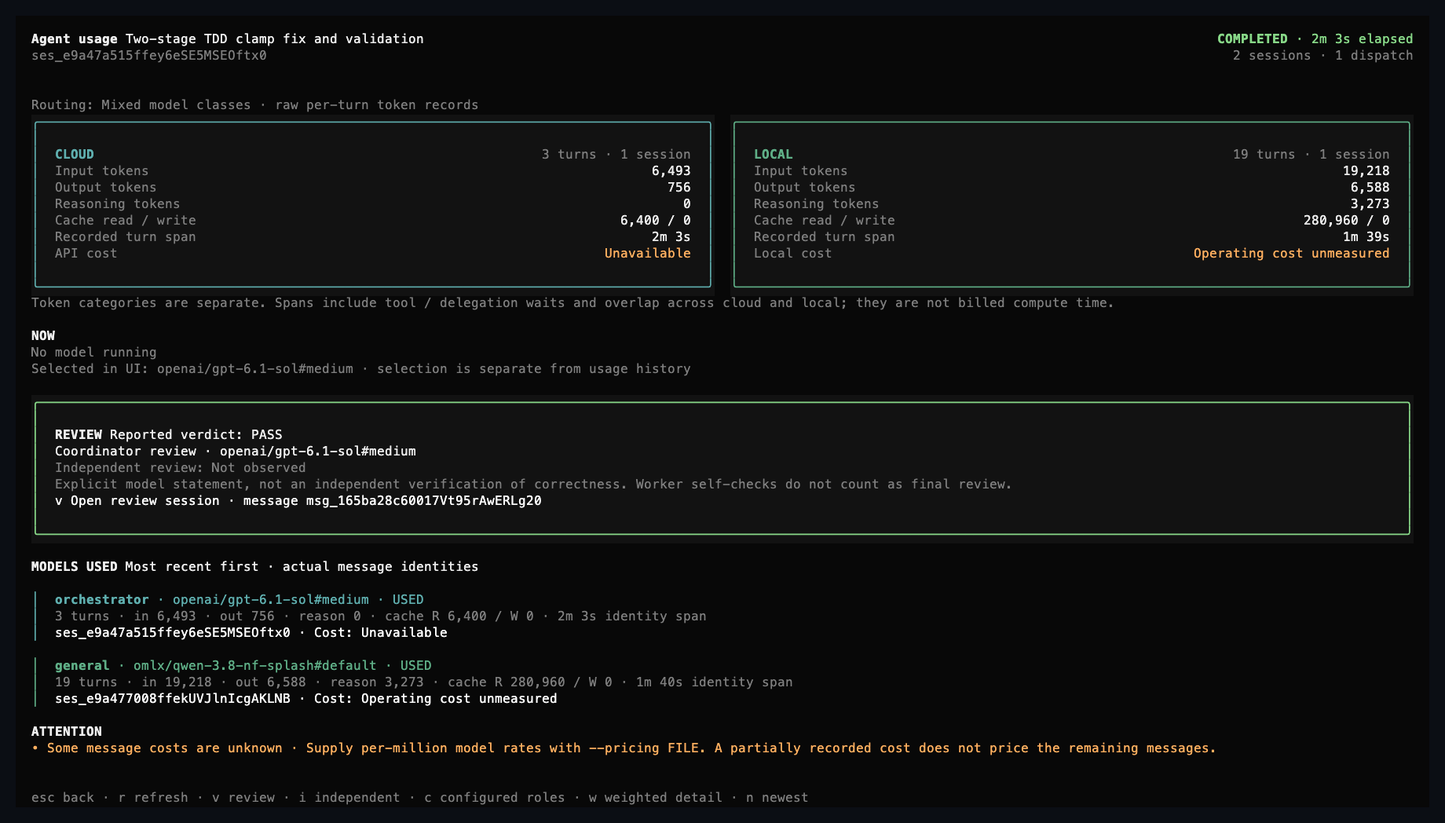
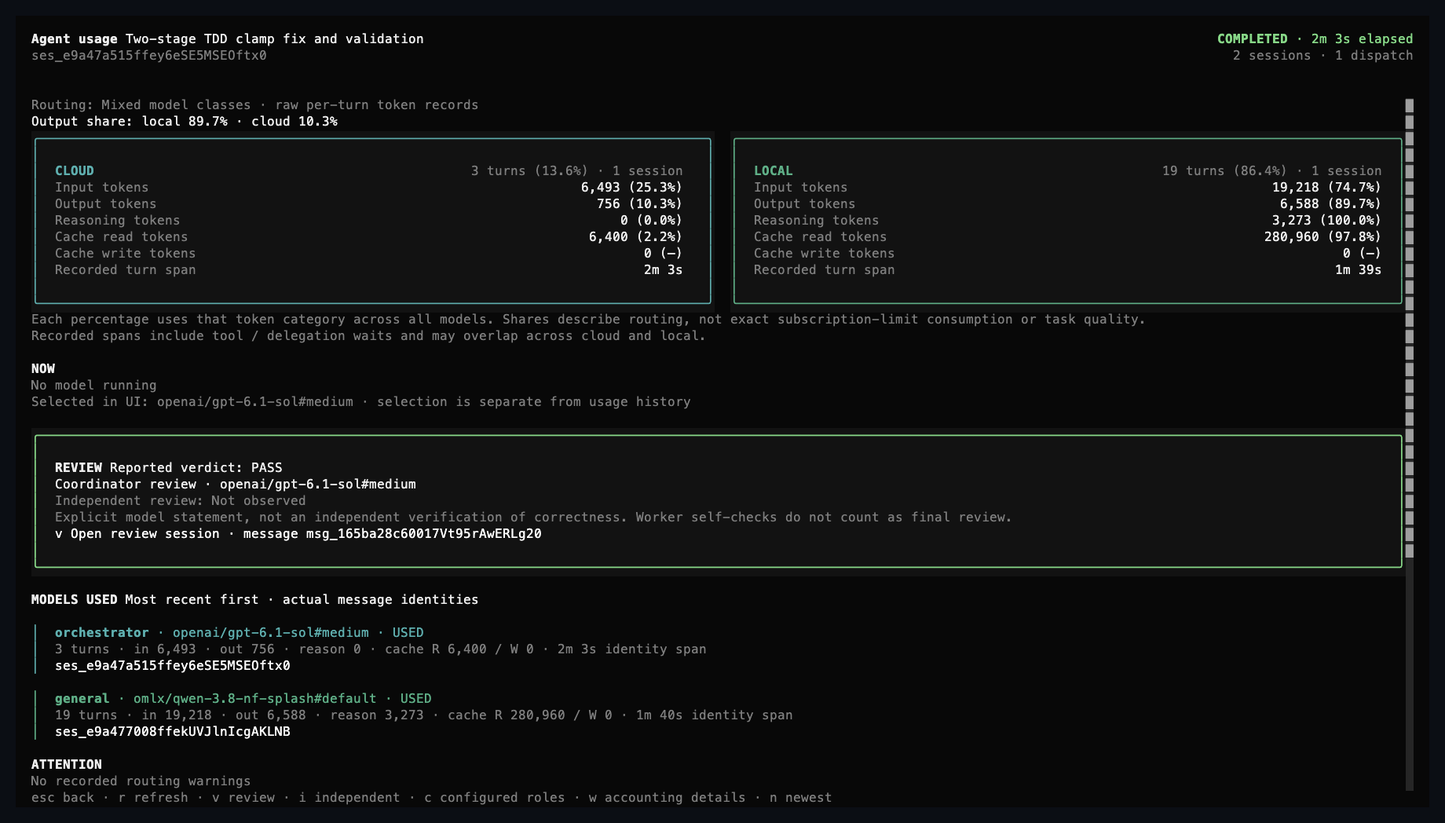
feat: prioritize subscription token shares in live usage widget

diff --git a/plugin/agent-usage/tui.tsx b/plugin/agent-usage/tui.tsx
@@ -2,7 +2,7 @@
 import {Plugin} from "@opencode/plugin/tui"
 import {createEffect, createMemo, createSignal, For, Show, onCleanup} from "solid-js"
 import {analyze, num, pct, summaryLine, treeFrom} from "../../src/usage-analysis.js"
-import {dashboard, duration} from "./presentation.js"
+import {dashboard, duration, percentShare} from "./presentation.js"
 import {createUsageNavigation, latestRoot} from "./navigation.js"
 
 type Context = Plugin.Context
@@ -62,17 +62,15 @@ function UsageCard(props: {context: Context; title: string; color: Tone; stats: 
   return <box flexGrow={1} flexBasis={0} minWidth={38} border borderStyle="rounded" borderColor={props.color} backgroundColor={theme.background.raised.base} paddingLeft={2} paddingRight={2} paddingTop={1} paddingBottom={1}>
     <box flexDirection="row" justifyContent="space-between">
       <text fg={props.color}><b>{props.title}</b></text>
-      <text fg={theme.text.muted}>{countLabel(props.stats.turns, "turn")} · {countLabel(props.stats.sessions, "session")}</text>
+      <text fg={theme.text.muted}>{countLabel(props.stats.turns, "turn")} ({percentShare(props.stats.shares.turns)}) · {countLabel(props.stats.sessions, "session")}</text>
     </box>
-    <Metric context={props.context} label="Input tokens" value={num(props.stats.tokens.input)} />
-    <Metric context={props.context} label="Output tokens" value={num(props.stats.tokens.output)} />
-    <Metric context={props.context} label="Reasoning tokens" value={num(props.stats.tokens.reasoning)} />
-    <Metric context={props.context} label="Cache read / write" value={`${num(props.stats.tokens.cacheRead)} / ${num(props.stats.tokens.cacheWrite)}`} />
+    <Metric context={props.context} label="Input tokens" value={`${num(props.stats.tokens.input)} (${percentShare(props.stats.shares.input)})`} />
+    <Metric context={props.context} label="Output tokens" value={`${num(props.stats.tokens.output)} (${percentShare(props.stats.shares.output)})`} />
+    <Metric context={props.context} label="Reasoning tokens" value={`${num(props.stats.tokens.reasoning)} (${percentShare(props.stats.shares.reasoning)})`} />
+    <Metric context={props.context} label="Cache read tokens" value={`${num(props.stats.tokens.cacheRead)} (${percentShare(props.stats.shares.cacheRead)})`} />
+    <Metric context={props.context} label="Cache write tokens" value={`${num(props.stats.tokens.cacheWrite)} (${percentShare(props.stats.shares.cacheWrite)})`} />
     <Metric context={props.context} label="Recorded turn span" value={duration(props.stats.elapsedSeconds)} />
-    <Metric context={props.context} label={props.title === "LOCAL" ? "Local cost" : "API cost"} value={props.stats.cost.label} color={props.stats.cost.value === null ? theme.text.feedback.warning.base : props.color} />
-    <Show when={props.stats.cost.unpricedTurns && props.stats.cost.recordedValue > 0}>
-      <text fg={theme.text.feedback.warning.base}>${props.stats.cost.recordedValue.toFixed(4)} recorded; {props.stats.cost.unpricedTurns} unpriced turns</text>
-    </Show>
+
   </box>
 }
 
@@ -95,7 +93,7 @@ function UsagePage(props: {context: Context; rootID: string | undefined; onClose
     {bind: "v", title: "review source", run: openReview},
     {bind: "i", title: "independent review source", run: openIndependent},
     {bind: "c", title: "configured roles", run: () => setConfigured(!configured())},
-    {bind: "w", title: "weighted detail", run: () => setAdvanced(!advanced())},
+    {bind: "w", title: "accounting detail", run: () => setAdvanced(!advanced())},
   ]}))
   return <box width="100%" height="100%" backgroundColor={theme.background.base} paddingLeft={2} paddingRight={2} paddingTop={1}>
     <Show when={view()} fallback={<text fg={theme.text.muted}>No session data yet. Start a session, then open /usage.</text>}>
@@ -112,6 +110,7 @@ function UsagePage(props: {context: Context; rootID: string | undefined; onClose
         </box>
         <scrollbox flexGrow={1}>
           <text fg={theme.text.muted}>Routing: {v().report.routing.label} · raw per-turn token records</text>
+          <text fg={theme.text.base}>Output share: <span fg={colors.local}>local {percentShare(v().local.shares.output)}</span> · <span fg={colors.cloud}>cloud {percentShare(v().cloud.shares.output)}</span><Show when={v().unknown.tokens.output}> · unknown {percentShare(v().unknown.shares.output)}</Show></text>
           <box flexDirection="row" flexWrap="wrap" gap={2} width="100%">
             <UsageCard context={context} title="CLOUD" color={colors.cloud} stats={v().cloud} />
             <UsageCard context={context} title="LOCAL" color={colors.local} stats={v().local} />
@@ -119,7 +118,8 @@ function UsagePage(props: {context: Context; rootID: string | undefined; onClose
           <Show when={v().unknown.turns}>
             <UsageCard context={context} title="UNKNOWN PROVIDER" color={colors.unknown} stats={v().unknown} />
           </Show>
-          <text fg={theme.text.muted}>Token categories are separate. Spans include tool / delegation waits and overlap across cloud and local; they are not billed compute time.</text>
+          <text fg={theme.text.muted}>Each percentage uses that token category across all models. Shares describe routing, not exact subscription-limit consumption or task quality.</text>
+          <text fg={theme.text.muted}>Recorded spans include tool / delegation waits and may overlap across cloud and local.</text>
           <box paddingTop={1} paddingBottom={1}>
             <text fg={theme.text.base}><b>NOW</b></text>
             <Show when={v().active.length} fallback={<text fg={theme.text.muted}>No model running</text>}>
@@ -143,7 +143,8 @@ function UsagePage(props: {context: Context; rootID: string | undefined; onClose
               return <box border={['left']} borderColor={colors[entry.class] ?? colors.unknown} paddingLeft={2} marginTop={1}>
                 <text fg={colors[entry.class] ?? colors.unknown}><b>{entry.agent}</b> · {entry.model} · {entry.active ? "RUNNING" : "USED"}</text>
                 <text fg={theme.text.muted}>{usage()?.turns ?? 0} turns · in {num(usage()?.tokens.input)} · out {num(usage()?.tokens.output)} · reason {num(usage()?.tokens.reasoning)} · cache R {num(usage()?.tokens.cacheRead)} / W {num(usage()?.tokens.cacheWrite)} · {duration(usage()?.elapsedSeconds ?? 0)} identity span</text>
-                <text fg={theme.text.action.base} onMouseUp={() => context.ui.router.navigate({type: "session", sessionID: entry.sessionID})}>{entry.sessionID} · Cost: {entry.cost.label}</text>
+                <text fg={theme.text.action.base} onMouseUp={() => context.ui.router.navigate({type: "session", sessionID: entry.sessionID})}>{entry.sessionID}</text>
+                <Show when={advanced()}><text fg={theme.text.muted}>Cost: {entry.cost.label}</text></Show>
               </box>
             }}</For>
           </box>
@@ -155,19 +156,21 @@ function UsagePage(props: {context: Context; rootID: string | undefined; onClose
           </Show>
           <box paddingTop={1}>
             <text fg={theme.text.base}><b>ATTENTION</b></text>
-            <Show when={v().report.findings.length} fallback={<text fg={theme.text.muted}>No recorded usage warnings</text>}>
-              <For each={v().report.findings.slice(0, 6)}>{finding => <text fg={finding.severity === "high" ? theme.text.feedback.error.base : finding.severity === "info" ? theme.text.muted : colors.unknown}>• {finding.title} · {finding.suggestion}</text>}</For>
+            <Show when={v().report.findings.filter(f => advanced() || f.id !== "unpriced-models").length} fallback={<text fg={theme.text.muted}>No recorded routing warnings</text>}>
+              <For each={v().report.findings.filter(f => advanced() || f.id !== "unpriced-models").slice(0, 6)}>{finding => <text fg={finding.severity === "high" ? theme.text.feedback.error.base : finding.severity === "info" ? theme.text.muted : colors.unknown}>• {finding.title} · {finding.suggestion}</text>}</For>
             </Show>
           </box>
           <Show when={advanced()}>
             <box paddingTop={1}>
+              <text fg={theme.text.muted}>Cloud API cost: {v().cloud.cost.label} · Local cost: {v().local.cost.label}</text>
+              <Show when={v().cloud.cost.unpricedTurns && v().cloud.cost.recordedValue > 0}><text fg={colors.unknown}>${v().cloud.cost.recordedValue.toFixed(4)} recorded; {v().cloud.cost.unpricedTurns} unpriced cloud turns</text></Show>
               <text fg={theme.text.muted}>Weighted heuristic: cloud {num(v().report.totals.cloud.weighted)} ({pct(v().report.shares.cloudWeighted)}) · local {num(v().report.totals.local.weighted)} ({pct(v().report.shares.localWeighted)})</text>
               <text fg={theme.text.muted}>Input + output + reasoning + cache write + 10% cache read. This is not billing or an efficiency score.</text>
             </box>
           </Show>
           <text fg={theme.text.muted}> </text>
         </scrollbox>
-        <text fg={theme.text.muted} flexShrink={0}>esc back · r refresh · v review · i independent · c configured roles · w weighted detail · n newest</text>
+        <text fg={theme.text.muted} flexShrink={0}>esc back · r refresh · v review · i independent · c configured roles · w accounting details · n newest</text>
       </>}
     </Show>
   </box>
@@ -181,12 +184,14 @@ function SidebarUsage(props: {context: Context; sessionID: string}) {
       <text fg={theme.text.base}><b>Usage</b></text>
       <text fg={v().status === "failed" ? theme.text.feedback.error.base : colors.cloud}>{statusText(v().status)} · {duration(v().elapsedSeconds)}</text>
     </box>
+    <text fg={theme.text.muted}>Output: <span fg={colors.local}>local {percentShare(v().local.shares.output)}</span> · <span fg={colors.cloud}>cloud {percentShare(v().cloud.shares.output)}</span></text>
     <For each={(["cloud", "local", ...(v().unknown.turns ? ["unknown"] : [])] as const)}>{kind => <box marginTop={1}>
-      <text fg={colors[kind]}><b>{kind.toUpperCase()}</b> · {v()[kind].turns} turns · {duration(v()[kind].elapsedSeconds)} span</text>
-      <text fg={theme.text.base}>In {num(v()[kind].tokens.input)} · Out {num(v()[kind].tokens.output)}</text>
-      <text fg={theme.text.muted}>Reason {num(v()[kind].tokens.reasoning)}</text>
-      <text fg={theme.text.muted}>Cache R {num(v()[kind].tokens.cacheRead)} · W {num(v()[kind].tokens.cacheWrite)}</text>
-      <text fg={v()[kind].cost.value === null ? colors.unknown : colors[kind]}>Cost: {kind === "local" && v()[kind].cost.kind === "local" ? "Not measured" : v()[kind].cost.label}</text>
+      <text fg={colors[kind]}><b>{kind.toUpperCase()}</b> · {v()[kind].turns} turns ({percentShare(v()[kind].shares.turns)})</text>
+      <text fg={theme.text.base}>In {num(v()[kind].tokens.input)} · {percentShare(v()[kind].shares.input)}</text>
+      <text fg={theme.text.base}>Out {num(v()[kind].tokens.output)} · {percentShare(v()[kind].shares.output)}</text>
+      <text fg={theme.text.muted}>Reason {num(v()[kind].tokens.reasoning)} · {percentShare(v()[kind].shares.reasoning)}</text>
+      <text fg={theme.text.muted}>Cache R {num(v()[kind].tokens.cacheRead)} · {percentShare(v()[kind].shares.cacheRead)}</text>
+      <Show when={v().report.totals.all.raw.cacheWrite}><text fg={theme.text.muted}>Cache W {num(v()[kind].tokens.cacheWrite)} · {percentShare(v()[kind].shares.cacheWrite)}</text></Show>
     </box>}</For>
     <box marginTop={1}>
       <text fg={theme.text.base}><b>NOW</b></text>

diff --git a/test/plugin-runtime.test.js b/test/plugin-runtime.test.js
@@ -58,12 +58,12 @@ with tempfile.TemporaryDirectory(prefix='agent-usage-runtime-') as temporary:
  usage=json.loads(reportfile.read_text()) if reportfile.exists() else {}
  with sqlite3.connect(base/'data/opencode/opencode.db') as db:
   messages=db.execute('select count(*) from session_message').fetchone()[0]
- result={'tuiUsageRendered':'Agent usage' in text,'originIDRendered':ids[0] in text,'originTitleRendered':'Older originating root' in text,'routingRendered':'Routing: Model class unknown' in text,'reportWritten':bool(usage),'reportRootMatches':usage.get('root',{}).get('id')==ids[0],'reportRouting':usage.get('routing',{}).get('status'),'textAndLatestWritten':(reportdir/(ids[0]+'.txt')).exists() and (reportdir/'latest.txt').exists(),'messageCount':messages,'rawMetricsRendered':all(label in current for label in ['Input tokens','Output tokens','Reasoning tokens','Cache read / write','API cost','Local cost']),'modelStateRendered':'No model running' in current and 'Selected in UI:' in current,'reviewContextRendered':'Reported verdict: Not reported' in current and 'Independent review: Not observed' in current,'weightedSecondary':'Weighted heuristic:' not in current,'configuredRolesToggled':'CONFIGURED ROLES' in configured_screen and 'build ·' in configured_screen,'weightedToggled':'Weighted heuristic:' in advanced_screen,'completionSource':'Synthetic iterable passed to production server.setup in native Bun runtime','limitation':'Natural model-completion event delivery and visible newest/back interaction are not asserted; navigation helper regressions cover origin/back/newest.'}
+ result={'tuiUsageRendered':'Agent usage' in text,'originIDRendered':ids[0] in text,'originTitleRendered':'Older originating root' in text,'routingRendered':'Routing: Model class unknown' in text,'reportWritten':bool(usage),'reportRootMatches':usage.get('root',{}).get('id')==ids[0],'reportRouting':usage.get('routing',{}).get('status'),'textAndLatestWritten':(reportdir/(ids[0]+'.txt')).exists() and (reportdir/'latest.txt').exists(),'messageCount':messages,'rawMetricsRendered':all(label in current for label in ['Input tokens','Output tokens','Reasoning tokens','Cache read tokens','Cache write tokens']),'modelStateRendered':'No model running' in current and 'Selected in UI:' in current,'reviewContextRendered':'Reported verdict: Not reported' in current and 'Independent review: Not observed' in current,'weightedSecondary':'Weighted heuristic:' not in current,'costSecondary':'API cost:' not in current and 'Cloud API cost:' in advanced_screen,'categorySharesExplained':'Each percentage uses that token category' in current,'configuredRolesToggled':'CONFIGURED ROLES' in configured_screen and 'build ·' in configured_screen,'weightedToggled':'Weighted heuristic:' in advanced_screen,'completionSource':'Synthetic iterable passed to production server.setup in native Bun runtime','limitation':'Natural model-completion event delivery and visible newest/back interaction are not asserted; navigation helper regressions cover origin/back/newest.'}
  (repo/'artifacts').mkdir(exist_ok=True);(repo/'artifacts/review-plugin-runtime.json').write_text(json.dumps(result,indent=2));print(json.dumps(result))
 `;
  const result=spawnSync('python3',['-c',program,path.resolve('.')],{encoding:'utf8',timeout:35000,maxBuffer:1024*1024});
  assert.equal(result.status,0,result.stderr+result.stdout);
  const evidence=JSON.parse(result.stdout);
- for(const key of ['tuiUsageRendered','originIDRendered','originTitleRendered','routingRendered','reportWritten','reportRootMatches','textAndLatestWritten','rawMetricsRendered','modelStateRendered','reviewContextRendered','weightedSecondary','configuredRolesToggled','weightedToggled'])assert.equal(evidence[key],true,`${key}: ${result.stdout}`);
+ for(const key of ['tuiUsageRendered','originIDRendered','originTitleRendered','routingRendered','reportWritten','reportRootMatches','textAndLatestWritten','rawMetricsRendered','modelStateRendered','reviewContextRendered','weightedSecondary','costSecondary','categorySharesExplained','configuredRolesToggled','weightedToggled'])assert.equal(evidence[key],true,`${key}: ${result.stdout}`);
  assert.equal(evidence.reportRouting,'unknown');assert.equal(evidence.messageCount,0);
 });

diff --git a/test/widget-presentation.test.js b/test/widget-presentation.test.js
@@ -113,3 +113,15 @@ test('indented code and shorter nested fences cannot supply a review verdict',()
  f.messages.root[1].content=[{type:'text',text:'````markdown\n```\nVERDICT: PASS\n```\n````\nVERDICT: CHANGES_REQUIRED'}];
  assert.equal(dashboard(f.tree()).review.verdict,'CHANGES_REQUIRED');
 });
+test('subscription shares use each raw category separately and retain unknown usage in the denominator',()=>{
+ const f=fixture();f.sessions.push({id:'other',parentID:'root',model:{providerID:'unclassified',id:'model'},agent:'general'});
+ f.messages.other=[{id:'other',type:'assistant',agent:'general',model:{providerID:'unclassified',id:'model'},time:{created:5000,completed:6000},tokens:{input:120,output:100,cache:{read:350}}}];
+ const v=dashboard(f.tree());assert.equal(v.local.shares.input,200/500);assert.equal(v.cloud.shares.input,180/500);assert.equal(v.unknown.shares.input,120/500);
+ assert.equal(v.local.shares.output,70/200);assert.equal(v.local.shares.cacheRead,600/1000);assert.equal(v.local.shares.turns,1/4);
+ assert.equal(v.local.shares.reasoning,30/34);
+});
+test('empty token categories have no percentage and cache growth cannot inflate input or output shares',()=>{
+ const f=fixture(),before=dashboard(f.tree());f.messages.worker[0].tokens.cache.read=900000000;
+ const after=dashboard(f.tree());assert.equal(after.local.shares.input,before.local.shares.input);assert.equal(after.local.shares.output,before.local.shares.output);
+ assert.equal(dashboard(treeFrom([{id:'empty'}],{},'empty')).local.shares.output,null);
+});

diff --git a/plugin/agent-usage/presentation.js b/plugin/agent-usage/presentation.js
@@ -6,6 +6,8 @@ const running = value => (value?.type ?? value) === 'running';
 const endOf = message => Math.max(message.created || 0, message.completed || 0);
 const identity = row => `${row.sessionID}:${row.agent}:${typeof row.model === 'string' ? row.model : modelRef(row.model)}`;
 
+export const percentShare = fraction => fraction === null || fraction === undefined ? "—" : `${(fraction * 100).toFixed(1)}%`;
+
 export function duration(seconds) {
   if (!Number.isFinite(seconds)) return '—';
   const s = Math.max(0, Math.floor(seconds));
@@ -104,7 +106,9 @@ export function dashboard(tree, {statuses = {}, selected = null, now = Date.now(
   const group = name => {
     const rows = messages.filter(m => m.class === name), bucket = report.totals[name];
     const intervals = rows.map(m => [m.created, m.pending && running(statuses[m.sessionID]) && latest.get(m.sessionID) === m ? now : endOf(m)]);
-    return {tokens: bucket.raw, turns: bucket.turns, sessions: bucket.sessions, elapsedSeconds: unionSeconds(intervals), cost: costFor(rows, bucket, pricing)};
+    const shares = Object.fromEntries(Object.entries(bucket.raw).map(([key, count]) => [key, report.totals.all.raw[key] ? count / report.totals.all.raw[key] : null]));
+    shares.turns = report.totals.all.turns ? bucket.turns / report.totals.all.turns : null;
+    return {tokens: bucket.raw, shares, turns: bucket.turns, sessions: bucket.sessions, elapsedSeconds: unionSeconds(intervals), cost: costFor(rows, bucket, pricing)};
   };
   return {
     report,

diff --git a/README.md b/README.md
@@ -107,7 +107,7 @@ opencode-agent-setup plugin uninstall
 
 Restart OpenCode after installing. The plugin has two halves, neither of which makes a model request. The TUI reads session data; the server writes usage report files:
 
-- **TUI half** (`plugin/agent-usage/tui.tsx`): a colored sidebar widget and `/usage` dashboard show separate cloud/local input, output, reasoning and cache counters, elapsed time, recorded turn spans, and qualified costs. Running models, UI selection, actual model history and configured role defaults are distinguished. Review shows explicit cloud verdicts, coordinator versus independent review, differing verdicts and source-session links. Missing cloud billing stays unavailable; local operating cost stays unmeasured. `esc` returns to the originating session; `r` refreshes; `v`/`i` open review sources; `c` toggles role defaults; `w` toggles the secondary weighted heuristic; `n` selects the newest root. See the [widget guide](docs/usage-widget.md) for accounting and review semantics. Completion toasts link to the full breakdown.
+- **TUI half** (`plugin/agent-usage/tui.tsx`): a colored sidebar widget and `/usage` dashboard lead with local/cloud output share and show separate raw input, output, reasoning and cache counters with percentages, elapsed time and recorded turn spans. Optional cost details are hidden by default for subscription use. Running models, UI selection, actual model history and configured role defaults are distinguished. Review shows explicit cloud verdicts, coordinator versus independent review, differing verdicts and source-session links. Shares describe observed token routing, not exact subscription-limit consumption. Optional cloud billing stays unavailable when unrecorded; local operating cost stays unmeasured. `esc` returns to the originating session; `r` refreshes; `v`/`i` open review sources; `c` toggles role defaults; `w` toggles optional accounting and weighted details; `n` selects the newest root. See the [widget guide](docs/usage-widget.md) for accounting and review semantics. Completion toasts link to the full breakdown.
 - **Server half** (`plugin/agent-usage/server.js`): on session completion it writes the full text and JSON report for the root session to `~/.local/state/opencode-agent-setup/usage/<session>.txt|.json` and `latest.txt`, and logs a one-line summary. Child sessions are folded into their root's report.
 
 The plugin is a symlink to this checkout, so it imports the same `src/usage-analysis.js` the CLI uses; keep the directory in place. OpenCode 2.1.2 runs plugins under Bun, so the server half uses `bun:sqlite` through the loader's driver hook. The orchestrator itself is not involved: it cannot run shell, it cannot see its own final turn's tokens before it stops, and reading a report would spend cloud tokens.

diff --git a/docs/usage-widget.md b/docs/usage-widget.md
@@ -4,7 +4,15 @@ The sidebar and `/usage` page read OpenCode's own session and assistant-message 
 
 ![Usage dashboard](images/usage-details.png)
 
-## Raw usage and cost
+## Subscription efficiency
+
+The default view leads with local/cloud **output share** and shows percentages beside each raw token category. Each share uses all observed providers in that same category as its denominator. Unknown-provider usage remains in the denominator and appears separately. Empty categories show a dash. Increasing local cache reads cannot inflate local input or output percentages. Turn share counts assistant turns, not completed tasks or quality.
+
+The widget does not read subscription-limit units, so token shares do not show the exact percentage of your plan consumed. Assess local effectiveness using both accepted results and a matched cloud-only baseline. In the saved verified task, local handled 74.7% of input and 89.7% of output; cloud input fell 47.9% and cloud output fell 44.0% compared with Build-only. Both passed the same independent checks; mixed took 122.795 seconds versus 61.802 seconds. This is one bounded task with different cloud reasoning effort and uncontrolled cache/warm state; it is not a general model-quality estimate. See the [matched comparison](cloud-led-comparison.md). Planning and final review stayed on cloud Sol.
+
+Dollar costs and missing-price notices are hidden from the default view. Press `w` for optional accounting and weighted details.
+
+## Raw usage and optional cost
 
 Cloud and Local show input, output, reasoning, cache-read and cache-write counters separately, plus contributing turns and sessions. Counts accumulate across the root and its descendants. These are native per-turn records; repeated context/cache use is included. The categories are not presented as a single billed total because provider accounting can overlap categories.
 
@@ -30,7 +38,7 @@ Costs use positive per-message amounts recorded by OpenCode when available. A ze
 | `v` | Open the reported review's source session |
 | `i` | Open the independent review's source session |
 | `c` | Toggle current configured roles |
-| `w` | Toggle the secondary weighted heuristic |
+| `w` | Toggle optional costs and the secondary weighted heuristic |
 | `n` | Select the newest root session |
 
 The weighted heuristic remains available for continuity: input + output + reasoning + cache write + 10% cache read, rounded per message. It is not billing, actual token usage or proof of savings.

diff --git a/docs/test-report.md b/docs/test-report.md
@@ -184,3 +184,9 @@ Final verification: **154 passed, zero failures or skips**, 171.16 seconds, with
 A prior concurrent run delivered both success toasts with correct totals but had a 2775 ms completion gap, making its strict rapid-follow-up check inconclusive. The isolated rerun and final sequential suite passed without weakening that condition.
 
 The real benchmark capture was independently checked against SQLite: cloud input 6,493/output 756/cache read 6,400; local input 19,218/output 6,588/reasoning 3,273/cache read 280,960. Native elapsed time rounded to 123 seconds. Recorded spans can include tool/delegation waits and overlap; they are not compute time. Cloud billing remains unavailable and local operating cost unmeasured. Capturing the page added zero messages or model calls. Native configuration and the global plugin link were reverified; no cloud inference was used during this redesign. JavaScript syntax and `git diff --check` passed. [Tracked verification receipt](benchmarks/2026-10-22-widget-redesign.json).
+
+## Subscription-focused percentages — 2026-10-22
+
+The right-sidebar widget and full dashboard now lead with local/cloud output share, with category-specific percentages beside raw counts. Input, output, reasoning, cache read/write and turn shares use their respective all-provider denominator; unknown-provider usage is preserved. Empty categories show a dash. Large local cache counts cannot inflate input or output shares. Dollar costs and unpriced-model notices are hidden from the primary view and remain under `w` accounting details. Actual model history, selected/running model state and review evidence remain visible.
+
+Verification: **46 focused usage/presentation tests passed** and **1 native rendering/control test passed**, including the secondary-cost view and category-share explanation. The saved real benchmark capture shows local/cloud input **74.7%/25.3%** and output **89.7%/10.3%**, with no additional messages or model requests. This change made no cloud inference calls. It does not measure exact subscription-limit consumption. The last full suite (154 passing checks) is recorded above; the subsequent percentage-only change was checked with the focused suite and native TUI. [Saved percentage receipt](benchmarks/2026-10-22-subscription-shares.json).

diff --git a/docs/images/README.md b/docs/images/README.md
@@ -2,11 +2,11 @@
 
 These images capture the actual OpenCode 2.1.2 TUI displaying the completed cloud-led benchmark session. They are terminal captures, not desktop screenshots: macOS screen-recording access was unavailable (`CGPreflightScreenCaptureAccess()` returned false; `screencapture` could not capture the Terminal window).
 
-The native TUI ran in a 180-column, 48-row PTY with the installed global plugin. Its unmodified ANSI output was interpreted by `@xterm/headless`; Chromium captured the resulting terminal cells using Menlo. The detail image shows the dashboard viewport; the widget image focuses on the sidebar. No interface text, usage figures or layout was invented. The redesigned sidebar shows raw counters, qualified costs, timing, current/previous models and reported review context. Native checks also cover an 80-column terminal and the configured-role / weighted-detail toggles.
+The native TUI ran in a 180-column, 48-row PTY with the installed global plugin. Its unmodified ANSI output was interpreted by `@xterm/headless`; Chromium captured the resulting terminal cells using Menlo. The detail image shows the dashboard viewport; the widget image focuses on the sidebar. No interface text, usage figures or layout was invented. The redesigned sidebar shows raw counters and local/cloud percentages, timing, current/previous models and reported review context. Optional costs are hidden by default for subscription use. Native checks also cover an 80-column terminal and the configured-role / weighted-detail toggles.
 
 - `usage-sidebar.png`: complete session view, including the right sidebar.
 - `usage-widget.png`: sidebar detail.
 - `usage-details.png`: the `/usage` page.
 - `capture-provenance.json`: session and capture parameters, including unchanged message count.
 
-Only `/usage` was submitted. No model request was made. Local operating cost is not measured. Cloud billing was unavailable and remains flagged as unknown. The optional weighted heuristic is secondary to raw counters.
+Only `/usage` was submitted. No model request was made. The output-share headline and category-specific percentages use native token records. They do not measure exact subscription-limit consumption or task quality. Optional cost and weighted accounting remain available with `w`.

diff --git a/docs/progress.md b/docs/progress.md
@@ -64,3 +64,7 @@ Future Build baselines isolate global configuration and use a private server to 
 ## Raw usage and review dashboard — 22 October 2026
 
 Implemented the approved sidebar/dashboard design with raw counters, qualified costs, elapsed/recorded timing, actual model history, current selection, configurable-role visibility, and review source navigation. The global plugin link serves this checkout; fresh OpenCode instances load the redesign. All 154 final checks passed with native/local/plugin/completion coverage, alongside 44 focused checks and independent SQLite verification of the captured benchmark. No cloud generation was used. See `docs/usage-widget.md` and the saved terminal captures.
+
+## Subscription focus — 22 October 2026
+
+Refocused the live right-sidebar widget on local/cloud token percentages and verified review context. The default view leads with output share; category-specific counters show input/output/reasoning/cache shares without a combined weighted proxy. Costs are secondary. The fixture demonstrates 89.7% local output and 74.7% local input, with a verified 47.9% cloud-input reduction versus Build-only and roughly double the completion time. These are observed token shares, not subscription-quota percentages. Focused checks (46) and native UI/control verification (1) passed without cloud generation.
